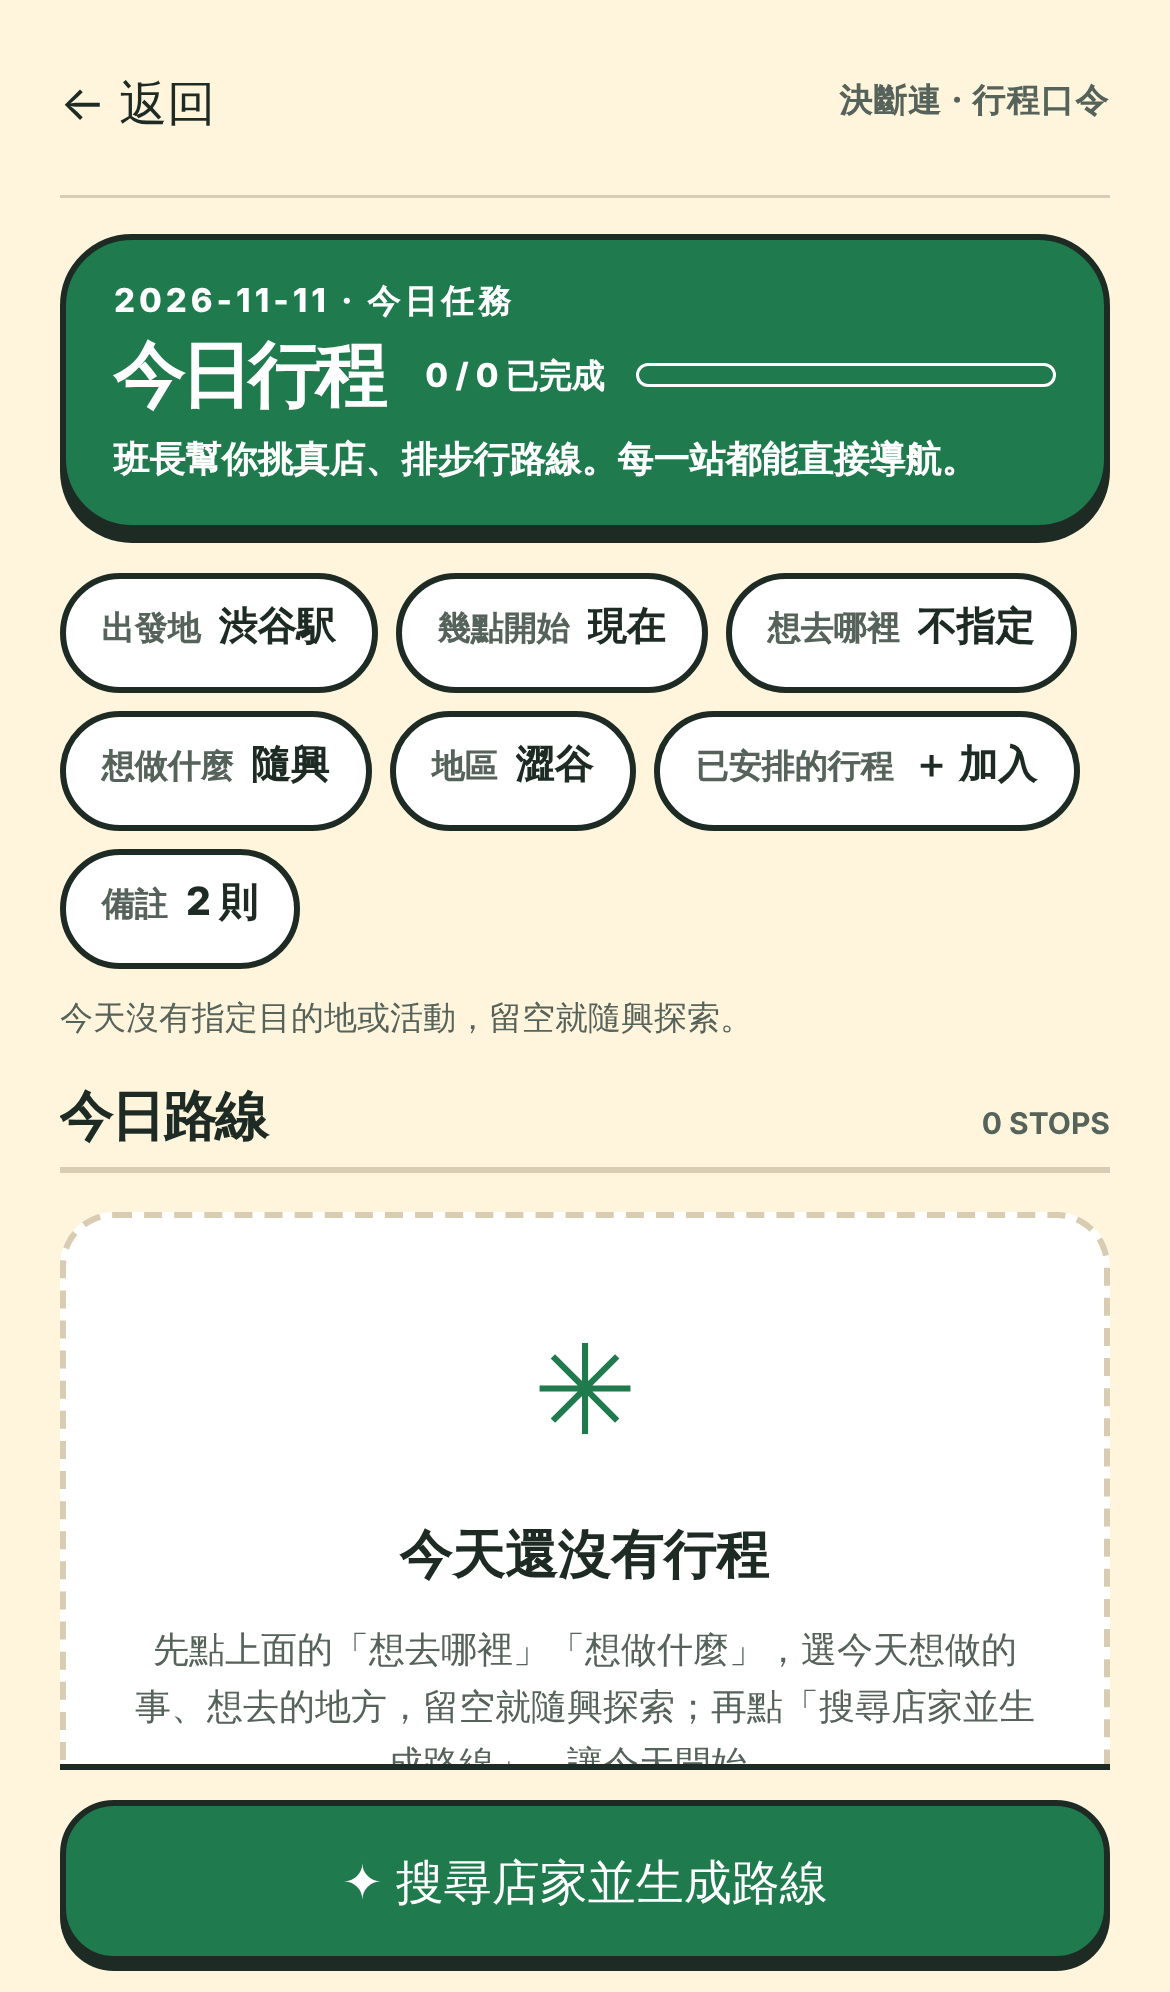
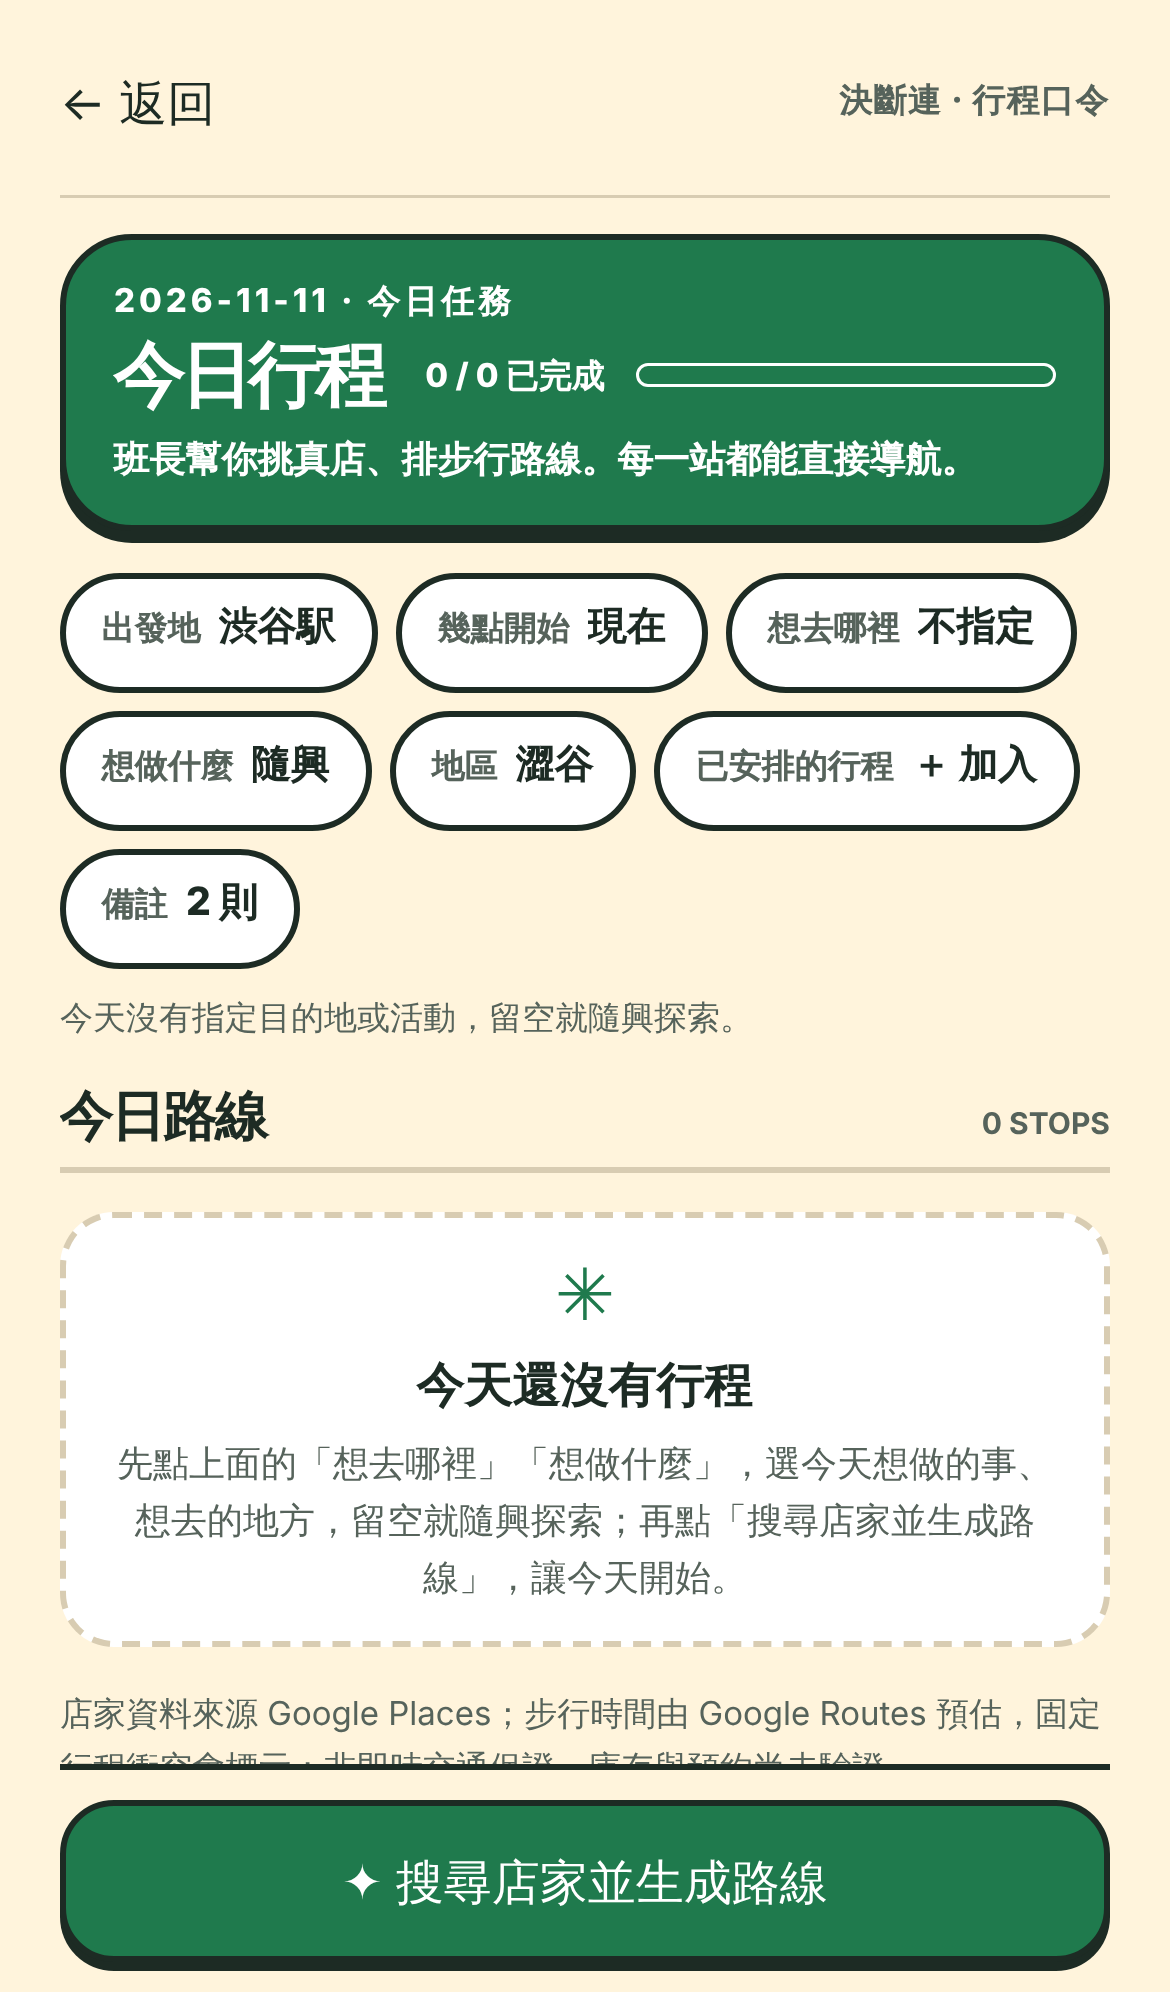
fix(daily): shrink the empty-state card so the dock no longer covers its last line
Claude-Session: https://claude.ai/code/session_01NsUyzmcpYr6iApPt9sAFVe

Changed region(s): [[0.0308, 0.6225, 0.9538, 0.9026], [0.0923, 0.7159, 0.2769, 0.7781]]

diff --git a/src/dailyDecision.css b/src/dailyDecision.css
@@ -135,3 +135,7 @@
 /* 進場只淡入、不位移：位移動畫（transform）進行中，固定在視窗的底部選單會改以這個畫面為定位基準，
  * 一進來就點膠囊時選單會跑到頁尾、把整頁捲走。 */
 @media(prefers-reduced-motion:no-preference){.dd.screen{animation-name:dd-enter}@keyframes dd-enter{from{opacity:0}to{opacity:1}}}
+/* 空行程的說明卡縮小：第一屏要整張看得到，不被底部按鍵遮住最後一行。 */
+.dd-empty{padding:12px 16px}
+.dd-empty>span{font-size:1.5rem;line-height:1.2}
+.dd-empty h3{font-size:1rem;margin:2px 0 4px}
